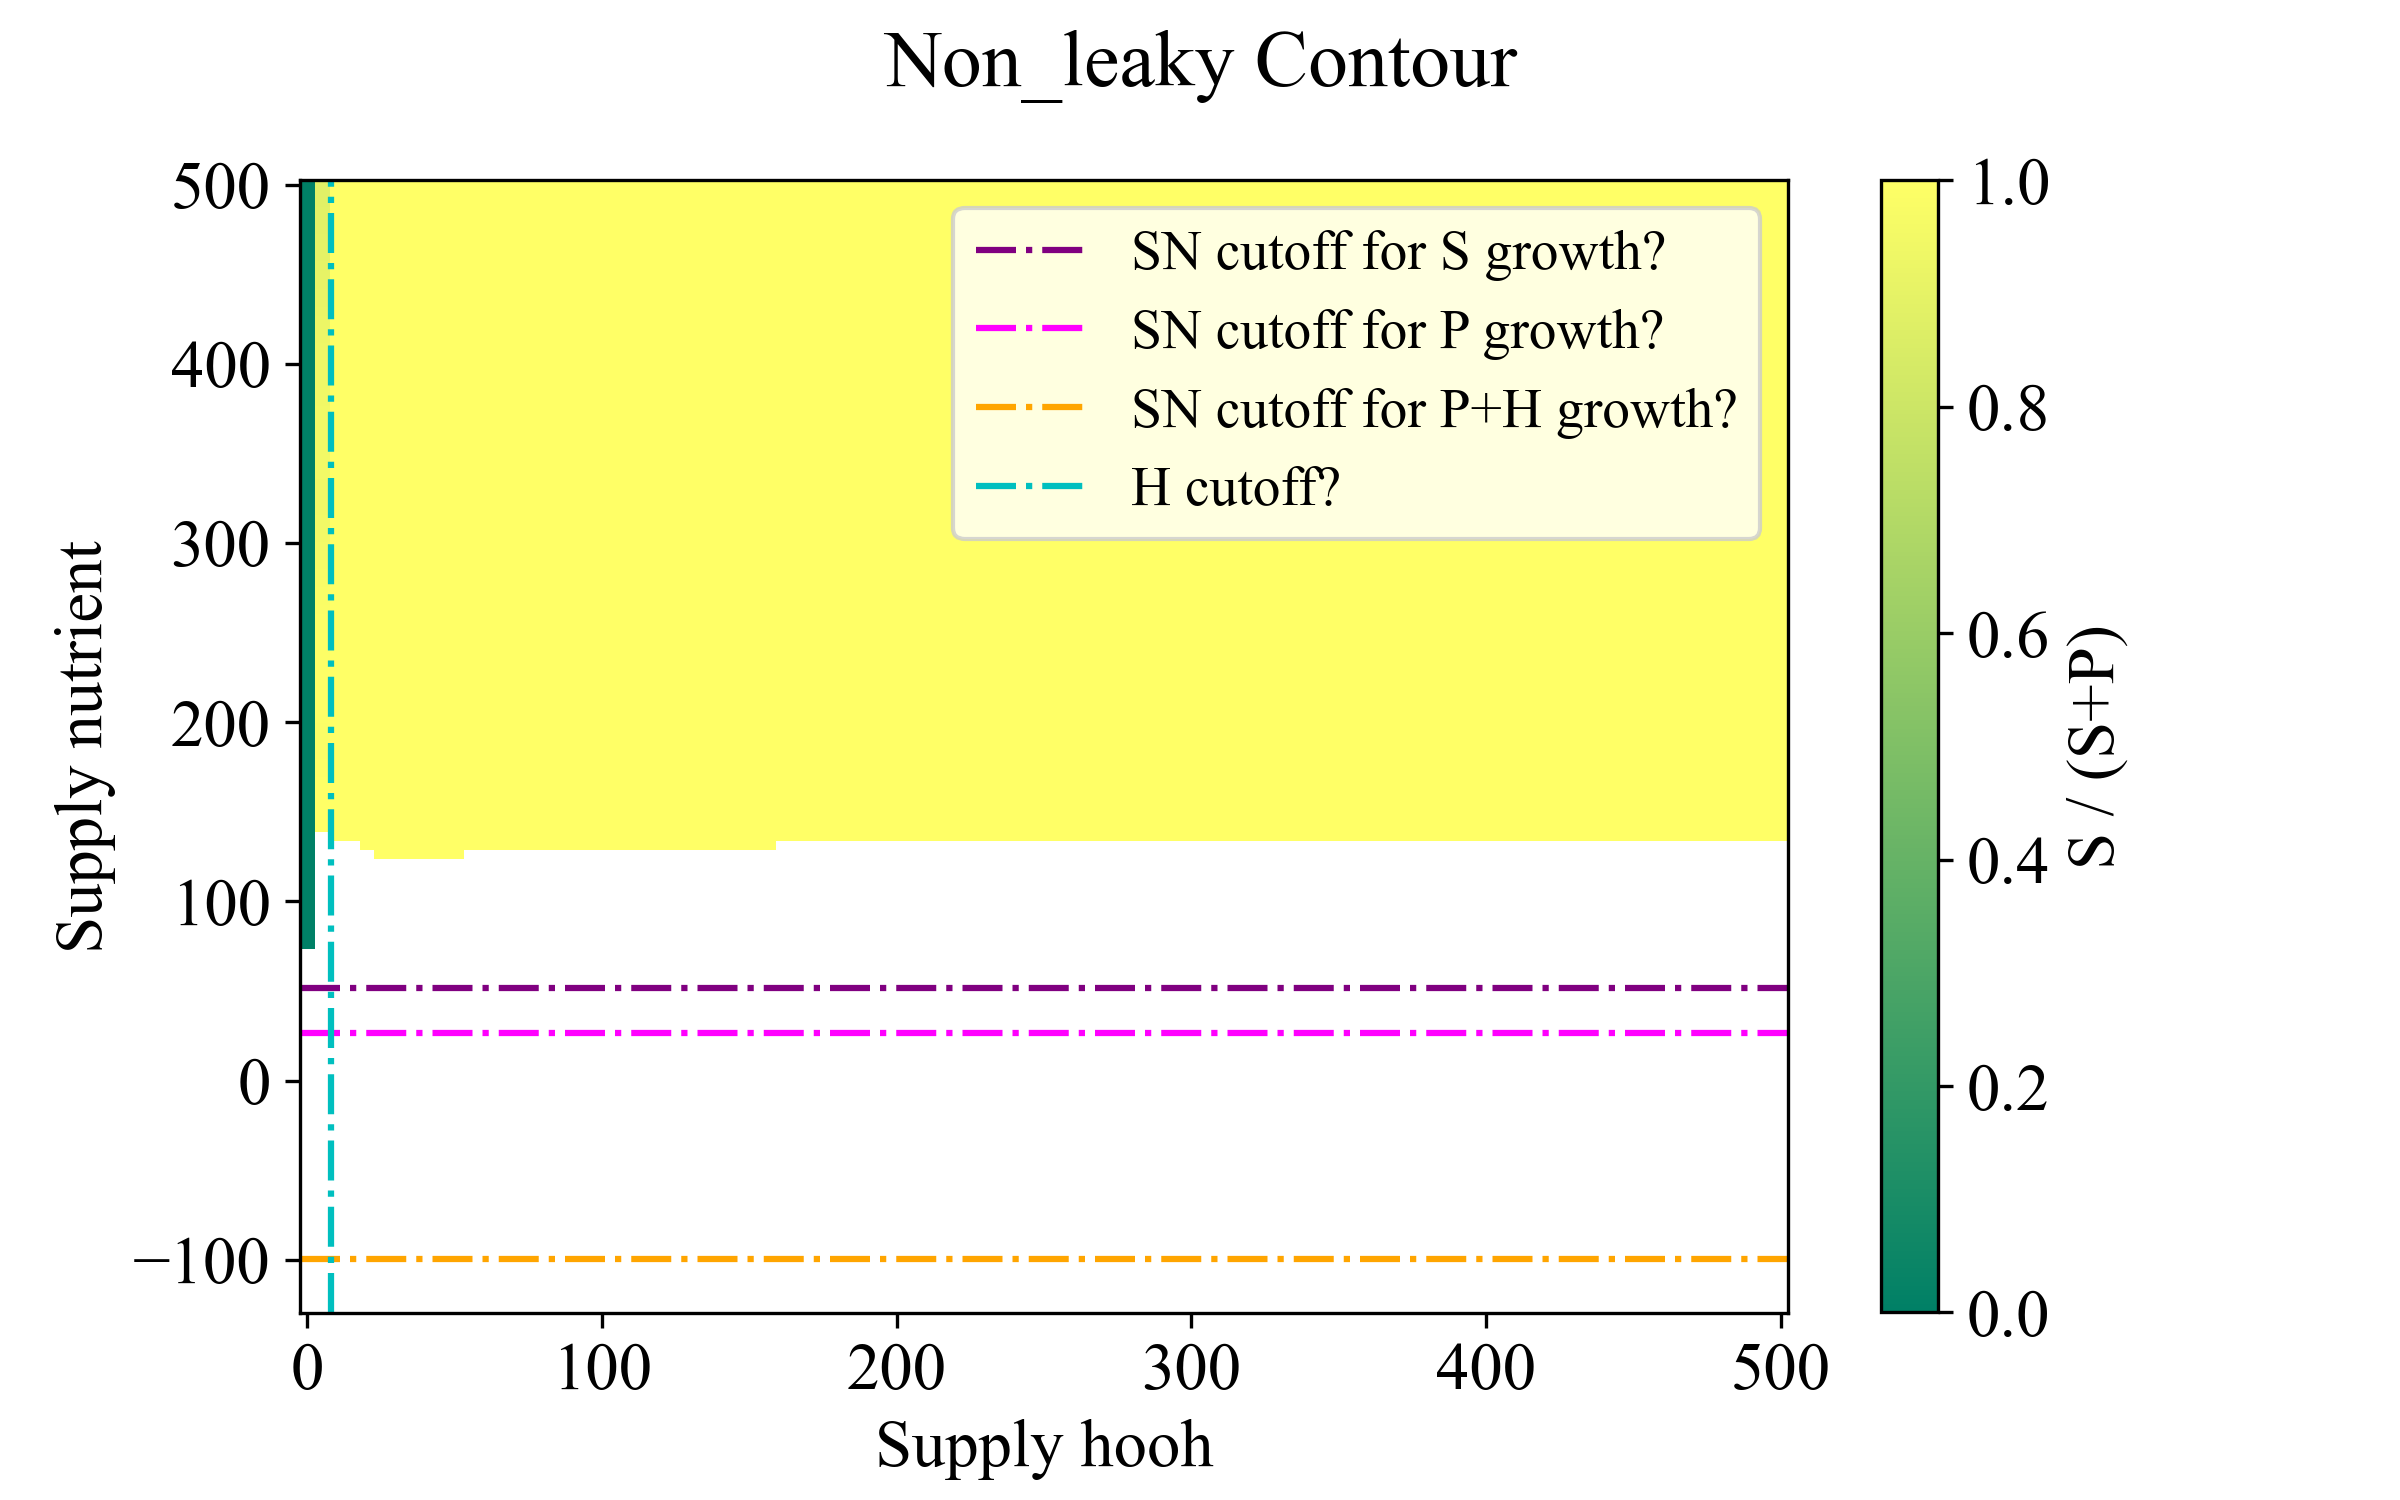
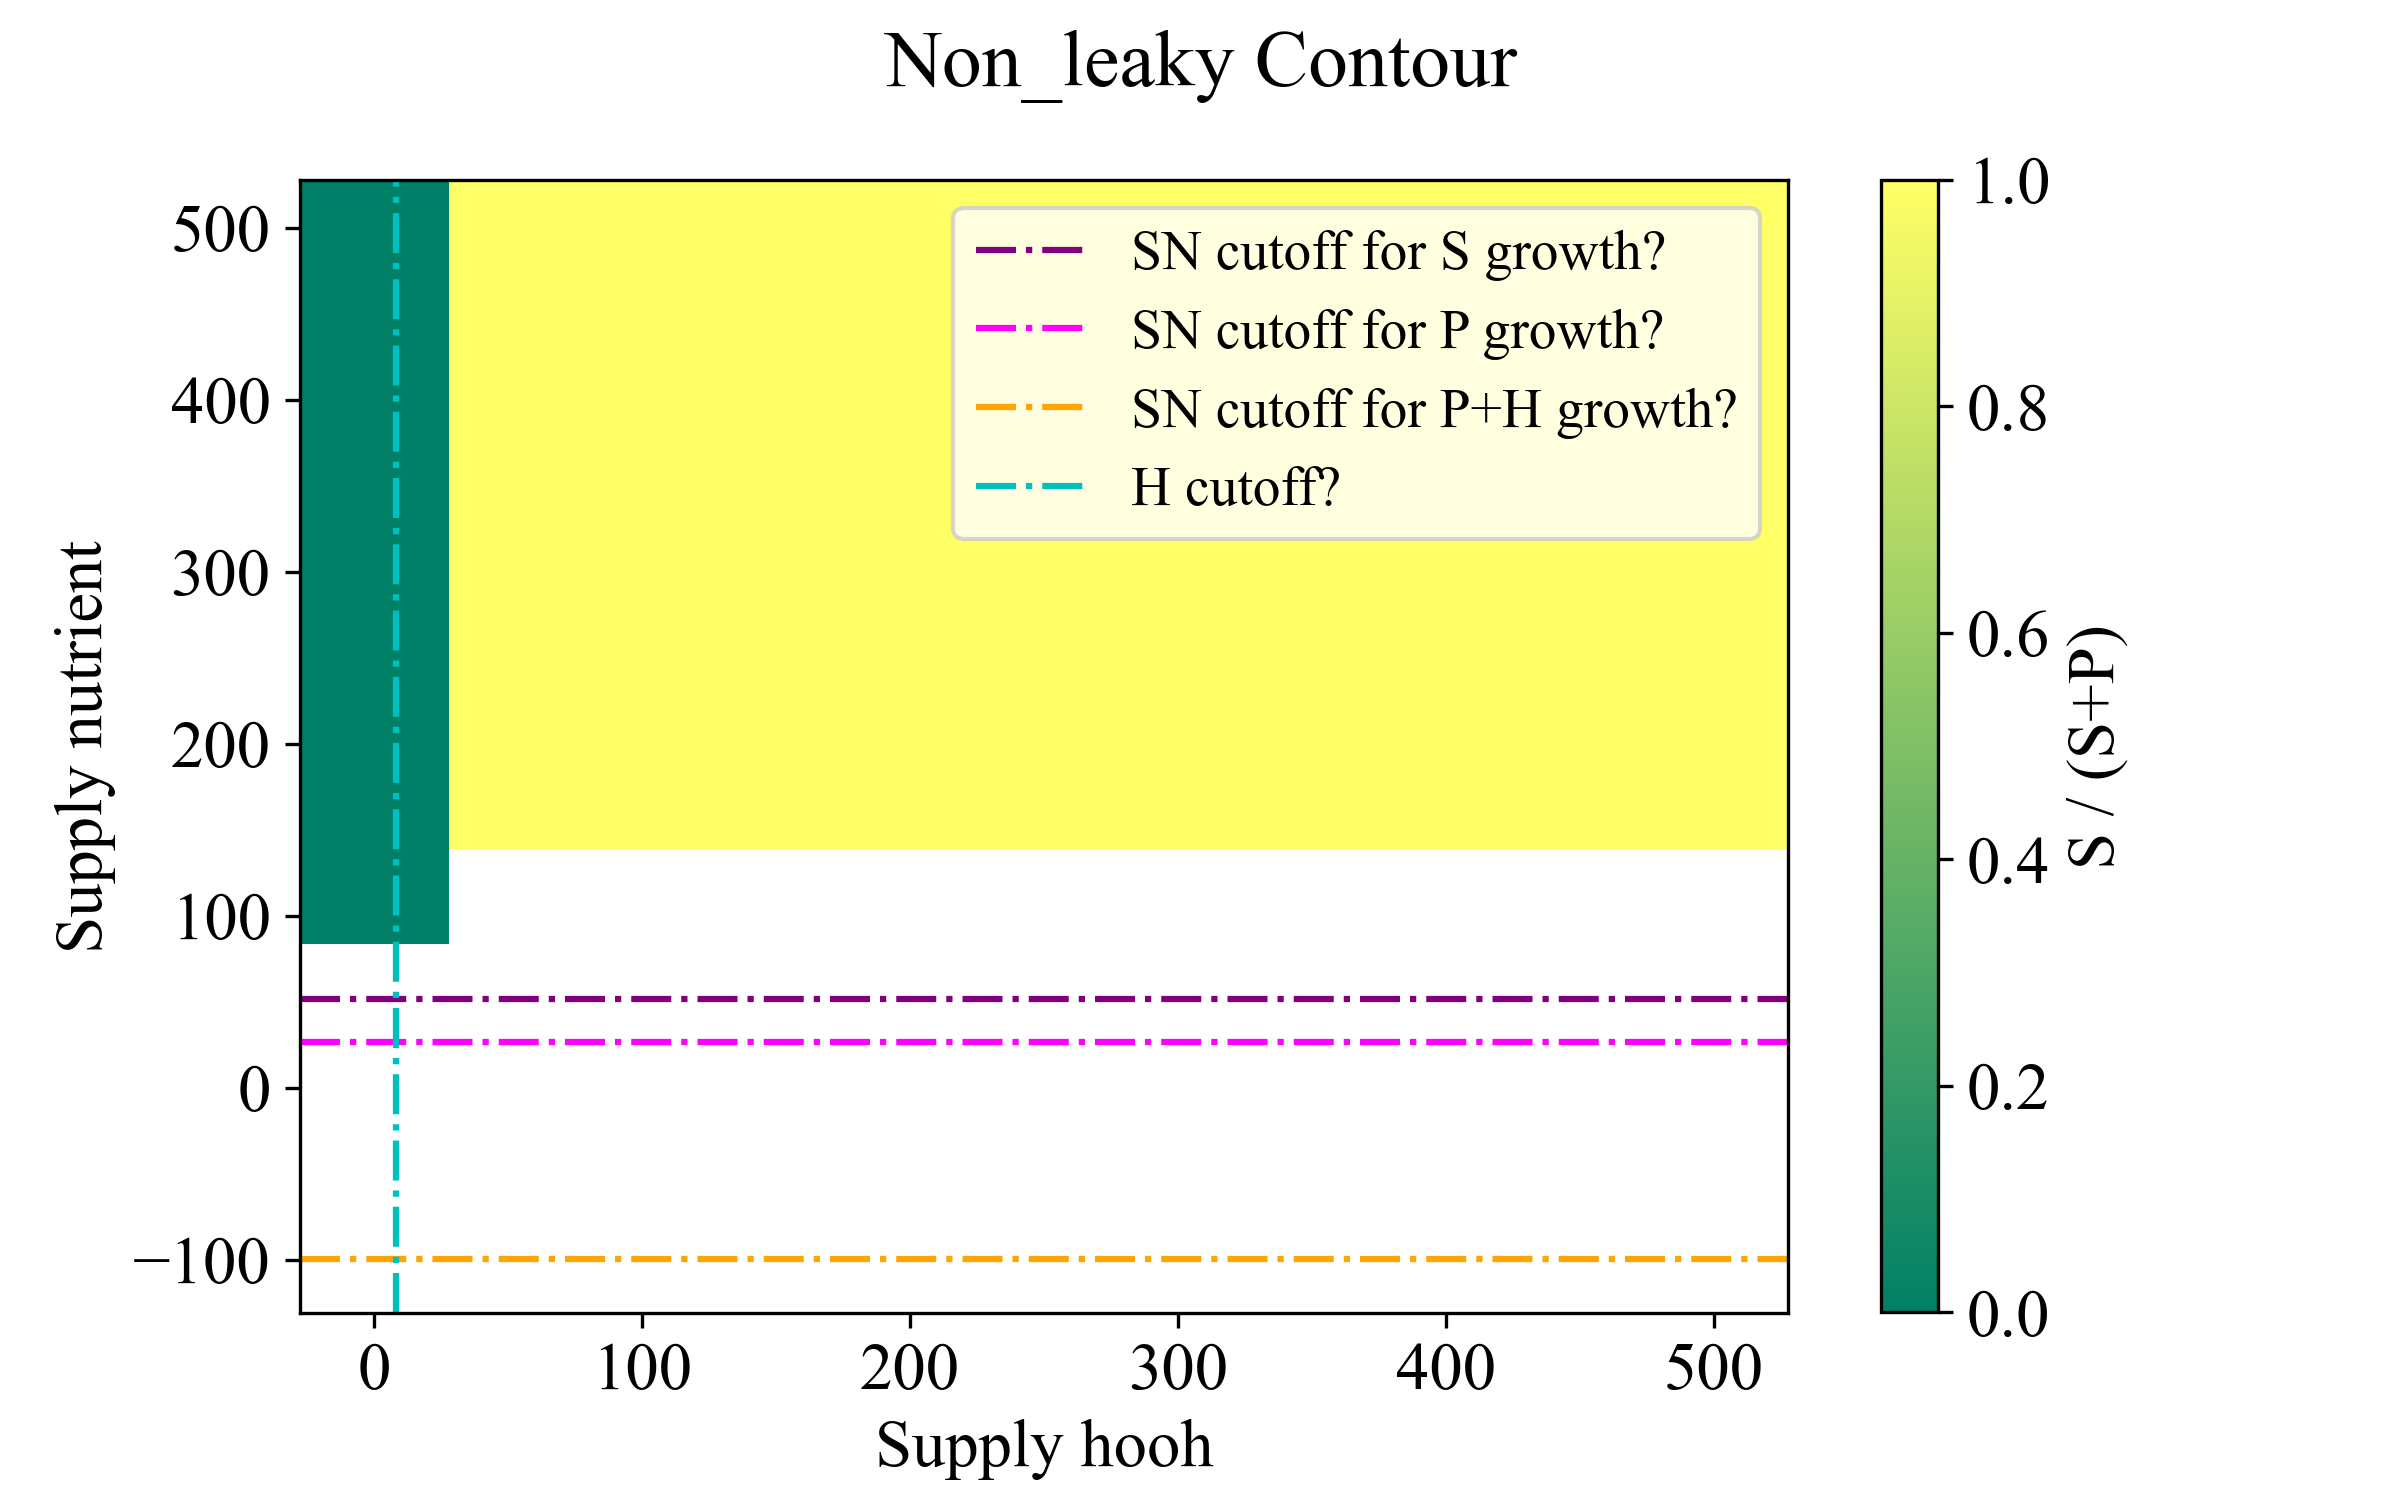
alsdkgh

diff --git a/src/no_leak_contour.py b/src/no_leak_contour.py
@@ -82,6 +82,29 @@ def nleak(y,t,params):
 
 
 
+
+
+##############################
+#  P wining Dynamics 
+##############################
+
+
+#params for P to Win 
+Sh = 50
+SN = 300
+params = [ksp,kss,k2,dp,ds,kdam,deltah,rho,SN,Sh]
+
+
+#run model 
+
+competition  = odeint(nleak, inits, mtimes, args = (params,))
+
+#grab values to graph 
+Ps = competition[:,0]
+Ss = competition[:,1]
+Ns = competition[:,2]
+Hs = competition[:,3]
+
 ##########################################################
 
 # Calculated analytical solutions at equilibrium
@@ -106,29 +129,6 @@ Pstar = (SN - rho*Nstarp)*((Nstarp + ksp)/((k2*Nstarp)*Qnp))
 
 Nstarph = ((ksp*dp )+(ksp*kdam*Hstar))/((k2*Qnp) - dp - (kdam*Hstar))
 vHline = ((deltah)/(Pstar*kdam)*((Nstarp+ksp)/(k2*Nstarp*Pstar*Qnp)+(dp*Pstar)))
-
-
-##############################
-#  P wining Dynamics 
-##############################
-
-
-#params for P to Win 
-Sh = 0
-SN = 200
-params = [ksp,kss,k2,dp,ds,kdam,deltah,rho,SN,Sh]
-
-
-#run model 
-
-competition  = odeint(nleak, inits, mtimes, args = (params,))
-
-#grab values to graph 
-Ps = competition[:,0]
-Ss = competition[:,1]
-Ns = competition[:,2]
-Hs = competition[:,3]
-
 
 #graph for P winning 
 
@@ -173,8 +173,8 @@ plt.show()
 ##############################
 
 #params for S to Win 
-Sh = 10
-SN = 200
+Sh = 300
+SN = 300
 params = [ksp,kss,k2,dp,ds,kdam,deltah,rho,SN,Sh]
 
 
@@ -188,6 +188,30 @@ Ss = competition[:,1]
 Ns = competition[:,2]
 Hs = competition[:,3]
 
+##########################################################
+
+# Calculated analytical solutions at equilibrium
+
+##########################################################
+
+
+##### S wins #########
+
+Nstars = (ds*kss)/((k2*Qns)-ds)
+
+#Hstar = Sh/deltah
+Sstar = (SN - rho*Nstars)*(((Nstars + kss)/(k2*Nstars*Qns)))
+
+
+##### P wins #########
+Nstarp = ((ksp*dp )+(ksp*kdam))/((k2*Qnp) - dp - kdam)
+
+Hstar = Sh/deltah
+
+Pstar = (SN - rho*Nstarp)*((Nstarp + ksp)/((k2*Nstarp)*Qnp))
+
+Nstarph = ((ksp*dp )+(ksp*kdam*Hstar))/((k2*Qnp) - dp - (kdam*Hstar))
+vHline = ((deltah)/(Pstar*kdam)*((Nstarp+ksp)/(k2*Nstarp*Pstar*Qnp)+(dp*Pstar)))
 
 #graph for S winning 
 
